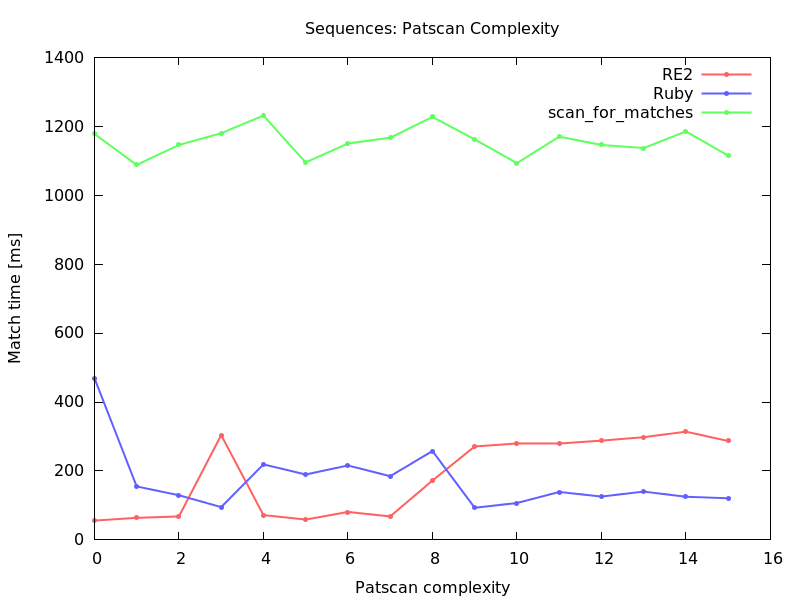
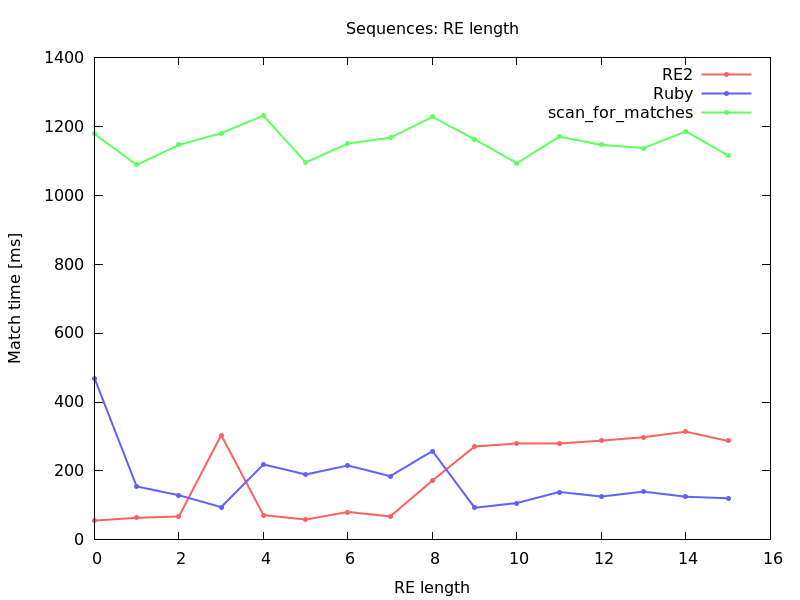
grafer

Changed region(s): [[0.375, 0.03, 0.6875, 0.06], [0.4375, 0.96, 0.625, 0.99]]

diff --git a/code/ruby/src/visualizer.rb b/code/ruby/src/visualizer.rb
@@ -7,49 +7,49 @@ class Visualizer
                 :re2 => '../patscan-patterns/benchmark/results/result_data/re2_mismatches.data',
                 :ruby => '../patscan-patterns/benchmark/results/result_data/ruby_mismatches.data',
                 :scan => '../patscan-patterns/benchmark/results/result_data/scan_for_matches_mismatches.data',
-                :xlabel => 'Patscan complexity',
+                :xlabel => 'RE length',
                 :ylabel => 'Match time [ms]',
-                :title => 'Mismatches: Patscan Complexity'
+                :title => 'Mismatches: RE length'
             },
             :deletions => {
                 :re2 => '../patscan-patterns/benchmark/results/result_data/re2_deletions.data',
                 :ruby => '../patscan-patterns/benchmark/results/result_data/ruby_deletions.data',
                 :scan => '../patscan-patterns/benchmark/results/result_data/scan_for_matches_deletions.data',
-                :xlabel => 'Patscan complexity',
+                :xlabel => 'RE length',
                 :ylabel => 'Match time [ms]',
-                :title => 'Deletions: Patscan Complexity'
+                :title => 'Deletions: RE length'
             },
             :insertions => {
                 :re2 => '../patscan-patterns/benchmark/results/result_data/re2_insertions.data',
                 :ruby => '../patscan-patterns/benchmark/results/result_data/ruby_insertions.data',
                 :scan => '../patscan-patterns/benchmark/results/result_data/scan_for_matches_insertions.data',
-                :xlabel => 'Patscan complexity',
+                :xlabel => 'RE length',
                 :ylabel => 'Match time [ms]',
-                :title => 'Insertions: Patscan Complexity'
+                :title => 'Insertions: RE length'
             },
             :combinations => {
                 :re2 => '../patscan-patterns/benchmark/results/result_data/re2_combinations.data',
                 :ruby => '../patscan-patterns/benchmark/results/result_data/ruby_combinations.data',
                 :scan => '../patscan-patterns/benchmark/results/result_data/scan_for_matches_combinations.data',
-                :xlabel => 'Patscan complexity',
+                :xlabel => 'RE length',
                 :ylabel => 'Match time [ms]',
-                :title => 'Combinations: Patscan Complexity'
+                :title => 'Combinations: RE length'
             },
             :ranges => {
                 :re2 => '../patscan-patterns/benchmark/results/result_data/re2_range.data',
                 :ruby => '../patscan-patterns/benchmark/results/result_data/ruby_range.data',
                 :scan => '../patscan-patterns/benchmark/results/result_data/scan_for_matches_range.data',
-                :xlabel => 'Patscan complexity',
+                :xlabel => 'RE length',
                 :ylabel => 'Match time [ms]',
-                :title => 'Ranges: Patscan Complexity'
+                :title => 'Ranges: RE length'
             },
             :sequences => {
                 :re2 => '../patscan-patterns/benchmark/results/result_data/re2_sequences.data',
                 :ruby => '../patscan-patterns/benchmark/results/result_data/ruby_sequences.data',
                 :scan => '../patscan-patterns/benchmark/results/result_data/scan_for_matches_sequences.data',
-                :xlabel => 'Patscan complexity',
+                :xlabel => 'RE length',
                 :ylabel => 'Match time [ms]',
-                :title => 'Sequences: Patscan Complexity'
+                :title => 'Sequences: RE length'
             }
         }
     end

diff --git a/code/ruby/spec/visualizer_spec.rb b/code/ruby/spec/visualizer_spec.rb
@@ -7,6 +7,7 @@ describe Visualizer, :type => :class do
         it 'should visualize json data' do
 
             visualizer = Visualizer.new
+            
             visualizer.visualize :mismatches
             visualizer.visualize :deletions
             visualizer.visualize :insertions
